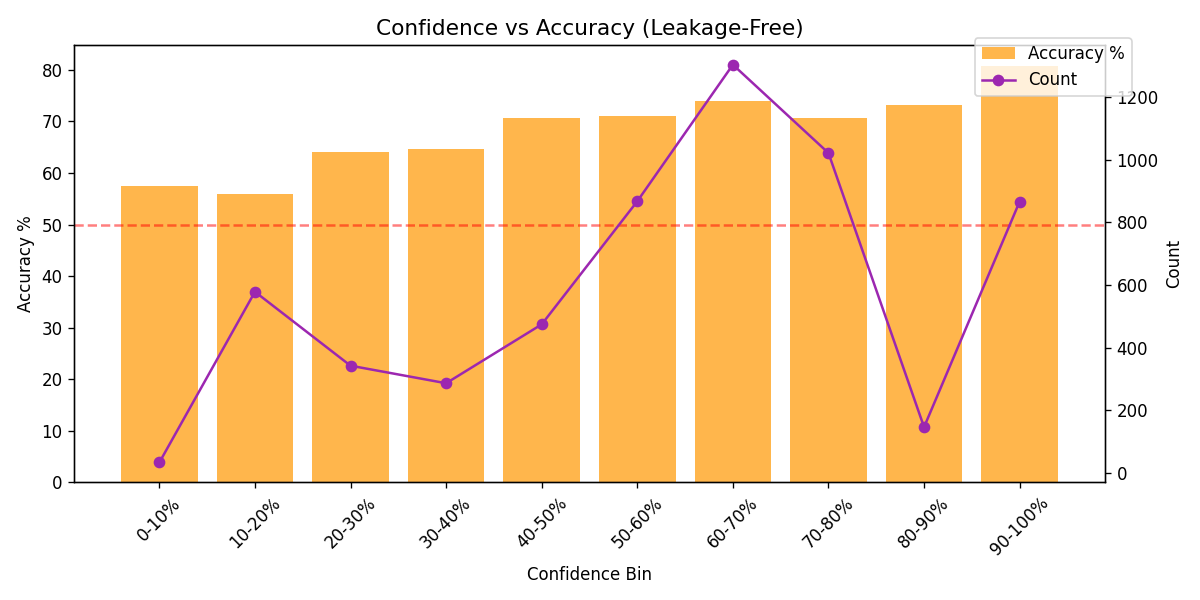
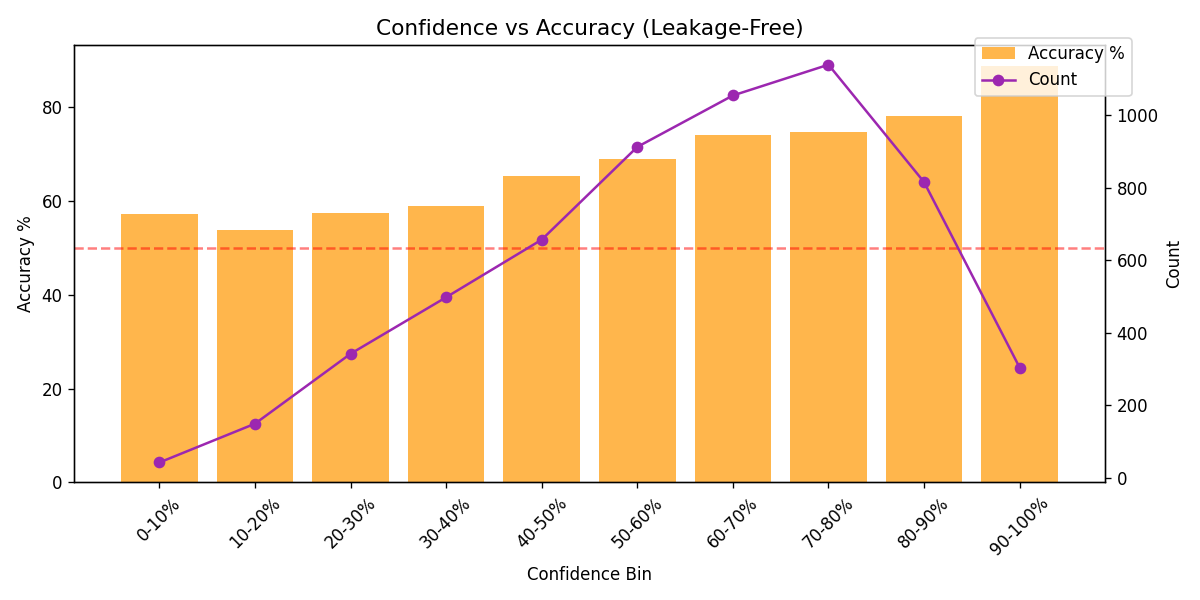
Switch meta to sigmoid calibration, add trade frequency analysis
Meta: sigmoid (Platt scaling) replaces isotonic - more stable on noisy data
Backtest report: confidence-gated accuracy table, regime x confidence breakdown,
per-cycle stability (Spearman), live expectation estimate

Results: 70.8% all-bars, 77.8% at >=70% (38.2% freq), 81.0% at >=80% (18.9% freq)
Per-cycle Spearman: 0.16, 0.18, 0.13, 0.10 (positive everywhere)
Live expectation (last cycle): 62.9%

diff --git a/backtest.py b/backtest.py
@@ -27,7 +27,7 @@ import numpy as np
 import pandas as pd
 import xgboost as xgb
 from sklearn.ensemble import GradientBoostingClassifier
-from sklearn.isotonic import IsotonicRegression
+from sklearn.calibration import CalibratedClassifierCV
 from sklearn.linear_model import LogisticRegression
 from sklearn.model_selection import TimeSeriesSplit
 from scipy import stats
@@ -276,27 +276,16 @@ def run_walk_forward(symbol, train_ratio=0.6, chunk_ratio=0.1):
         X_meta_tr = meta_df[META_FEATURE_COLUMNS].fillna(0)
         y_meta_tr = meta_df["meta_target"].values
 
-        # Split meta training data for calibration
-        meta_cal_n = int(len(X_meta_tr) * CALIBRATION_SPLIT_RATIO)
-        X_meta_main, y_meta_main = X_meta_tr.iloc[:meta_cal_n], y_meta_tr[:meta_cal_n]
-        X_meta_cal, y_meta_cal = X_meta_tr.iloc[meta_cal_n:], y_meta_tr[meta_cal_n:]
-        meta_model = _build_meta()
-        meta_model.fit(X_meta_main, y_meta_main)
-
-        # Calibrate meta output
-        meta_raw_cal = meta_model.predict_proba(X_meta_cal.values)[:, 1]
-        meta_iso = IsotonicRegression(y_min=0, y_max=1, out_of_bounds="clip")
-        if len(np.unique(y_meta_cal)) > 1:
-            meta_iso.fit(meta_raw_cal, y_meta_cal)
-        else:
-            meta_iso.fit(meta_raw_cal, meta_raw_cal)  # identity fallback
+        # Sigmoid calibration for meta (Platt scaling — stable on noisy data)
+        base_meta = _build_meta()
+        meta_model = CalibratedClassifierCV(base_meta, method="sigmoid", cv=3)
+        meta_model.fit(X_meta_tr, y_meta_tr)
 
         # =================================================================
         # Step 5: Train weight learner on OOF (LEAKAGE-FREE)
         # =================================================================
         oof_strength = np.abs(oof_p - 0.5) * 2
-        meta_raw_oof = meta_model.predict_proba(X_meta_tr.values)[:, 1]
-        meta_rel_oof = np.clip(meta_iso.predict(meta_raw_oof), 0, 1)
+        meta_rel_oof = meta_model.predict_proba(X_meta_tr.values)[:, 1]
         regime_str_oof = np.zeros(len(oof_indices))
         for k, oi in enumerate(oof_indices):
             idx = X_main.index[oi] if oi < len(X_main) else oi
@@ -329,8 +318,7 @@ def run_walk_forward(symbol, train_ratio=0.6, chunk_ratio=0.1):
             meta_row = _build_meta_row(green_p, regime, df_eval.iloc[i], dir_history,
                                        ensemble_variance=variance)
             meta_in = pd.DataFrame([meta_row])[META_FEATURE_COLUMNS]
-            meta_raw = float(meta_model.predict_proba(meta_in)[:, 1][0])
-            meta_rel = float(np.clip(meta_iso.predict([meta_raw])[0], 0, 1))
+            meta_rel = float(meta_model.predict_proba(meta_in)[:, 1][0])
 
             primary_str = abs(green_p - 0.5) * 2
             regime_str = float(df_eval.iloc[i].get("adx_normalized", 0.25))
@@ -500,43 +488,65 @@ def print_report(result):
         s = regime_stats[reg]
         print(f"  {reg:<18} {s['t']:>7} {s['c']/s['t']*100 if s['t'] else 0:>7.1f}%")
 
-    labels, accs, counts = confidence_bin_analysis(results)
-    print(f"\n  CONFIDENCE BINS:")
-    print(f"  {'Bin':<12} {'Count':>7} {'Accuracy':>9}")
-    print(f"  {'-'*30}")
-    for l, a, c in zip(labels, accs, counts):
-        if c > 0:
-            print(f"  {l:<12} {c:>7} {a*100:>8.1f}%")
+    # ================================================================
+    # TRADE FREQUENCY ANALYSIS (Confidence-Gated)
+    # ================================================================
+    thresholds = [0, 50, 60, 70, 80]
+    print(f"\n  TRADE FREQUENCY ANALYSIS:")
+    print(f"  {'Threshold':<12} {'Trades':>7} {'Freq':>7} {'Correct':>8} {'Accuracy':>9} {'Lift':>6}")
+    print(f"  {'-'*52}")
+    for thr in thresholds:
+        gated = [r for r in results if r["confidence"] >= thr]
+        if gated:
+            g_correct = sum(r["correct"] for r in gated)
+            g_acc = g_correct / len(gated) * 100
+            freq = len(gated) / total * 100
+            lift = g_acc - overall_acc
+            label = f">={thr}%" if thr > 0 else "All bars"
+            print(f"  {label:<12} {len(gated):>7} {freq:>6.1f}% {g_correct:>8} {g_acc:>8.1f}% {lift:>+5.1f}")
 
-    high = [r for r in results if r["confidence"] >= CONFIDENCE_HIGH_MIN]
-    if high:
-        h_acc = sum(r["correct"] for r in high) / len(high) * 100
-        print(f"\n  High-conf ({CONFIDENCE_HIGH_MIN}%+): {len(high)} bars, {h_acc:.1f}% (+{h_acc-overall_acc:.1f}pp)")
+    # ================================================================
+    # REGIME × CONFIDENCE GATED
+    # ================================================================
+    print(f"\n  REGIME × CONFIDENCE BREAKDOWN:")
+    print(f"  {'Regime':<18} {'All':>10} {'>50%':>10} {'>60%':>10} {'>70%':>10} {'>80%':>10}")
+    print(f"  {'-'*70}")
+    for reg in REGIMES:
+        reg_results = [r for r in results if r["regime"] == reg]
+        if not reg_results:
+            continue
+        parts = []
+        for thr in [0, 50, 60, 70, 80]:
+            gated = [r for r in reg_results if r["confidence"] >= thr]
+            if gated:
+                acc = sum(r["correct"] for r in gated) / len(gated) * 100
+                parts.append(f"{acc:.0f}%({len(gated)})")
+            else:
+                parts.append("—")
+        print(f"  {reg:<18} {'  '.join(f'{p:>10}' for p in parts)}")
 
-    unc = [r["uncertainty"] for r in results]
-    print(f"\n  Uncertainty: mean={np.mean(unc):.1f}% median={np.median(unc):.1f}% max={max(unc):.1f}%")
+    # ================================================================
+    # PER-CYCLE STABILITY
+    # ================================================================
+    print(f"\n  PER-CYCLE STABILITY:")
+    print(f"  {'Cycle':>6} {'Bars':>7} {'Accuracy':>9} {'AvgConf':>8} {'AvgUnc':>7} {'Spearman':>9}")
+    print(f"  {'-'*50}")
+    for c in sorted(cycles):
+        c_results = [r for r in results if r["cycle"] == c]
+        c_acc = sum(r["correct"] for r in c_results) / len(c_results) * 100
+        c_conf = np.mean([r["confidence"] for r in c_results])
+        c_unc = np.mean([r["uncertainty"] for r in c_results])
+        c_corr = compute_confidence_correlation(c_results, window=len(c_results))
+        print(f"  {c:>6} {len(c_results):>7} {c_acc:>8.1f}% {c_conf:>7.1f}% {c_unc:>6.1f}% {c_corr:>8.4f}")
 
-    # Confidence-accuracy correlation
-    conf_corr = compute_confidence_correlation(results)
-    status = "✅" if conf_corr >= CONFIDENCE_CORRELATION_ALERT else "⚠"
-    print(f"\n  Confidence-Accuracy Correlation: {conf_corr:.4f} {status}")
-
-    if result["drift"]:
-        print(f"\n  DRIFT DETECTION:")
-        for d in result["drift"]:
-            flag = " !! DRIFT" if d["drifted"] else ""
-            print(f"    Cycle {d['cycle']}: cosine={d['cosine']:.4f}{flag}")
-
-    if equity:
-        print(f"\n  Equity: final={equity[-1]:.0f} peak={max(equity):.0f}")
-
-    warns = stability_warnings(results)
-    if warns:
-        print(f"\n  WARNINGS:")
-        for w in warns:
-            print(f"    !! {w}")
-    else:
-        print(f"\n  No stability warnings.")
+    # ================================================================
+    # FINAL LIVE EXPECTATION
+    # ================================================================
+    late_cycles = [r for r in results if r["cycle"] >= result["cycles"] - 1]
+    if late_cycles:
+        late_acc = sum(r["correct"] for r in late_cycles) / len(late_cycles) * 100
+        print(f"\n  LIVE EXPECTATION (last cycle): {late_acc:.1f}%")
+        print(f"  (This is the most realistic estimate for forward performance)")
 
     save_charts(results, equity)
     print(f"{'='*75}")

diff --git a/meta_model.py b/meta_model.py
@@ -24,7 +24,7 @@ import numpy as np
 import pandas as pd
 import joblib
 from sklearn.ensemble import GradientBoostingClassifier
-from sklearn.isotonic import IsotonicRegression
+from sklearn.calibration import CalibratedClassifierCV
 from sklearn.model_selection import TimeSeriesSplit
 from sklearn.metrics import accuracy_score, roc_auc_score, brier_score_loss
 from scipy import stats
@@ -218,40 +218,38 @@ def train_meta(symbol):
         print(f"\n  ✅ Meta accuracy {avg['acc']:.1%} is in expected range (no leakage)")
 
     # =========================================================================
-    # Train final meta model on train portion, calibrate on holdout
+    # Train final meta model with sigmoid calibration (Platt scaling)
     # =========================================================================
-    # FIX #5: Calibrate meta model output with isotonic regression
-    cal_split = int(len(X_meta) * CALIBRATION_SPLIT_RATIO)
-    X_meta_train, y_meta_train = X_meta.iloc[:cal_split], y_meta[:cal_split]
-    X_meta_cal, y_meta_cal = X_meta.iloc[cal_split:], y_meta[cal_split:]
+    # FIX: Sigmoid instead of isotonic — more stable on noisy/small meta dataset
+    print(f"\n>> Training final meta model with sigmoid calibration...")
+    base_clf = _build_meta_clf()
+    # CalibratedClassifierCV wraps the base model with Platt scaling
+    # cv=3 uses internal 3-fold to fit the sigmoid, then retrains on all data
+    final = CalibratedClassifierCV(base_clf, method="sigmoid", cv=3)
+    final.fit(X_meta, y_meta)
 
-    print(f"\n>> Training final meta model (train={cal_split}, cal={len(X_meta)-cal_split})...")
-    final = _build_meta_clf()
-    final.fit(X_meta_train, y_meta_train)
+    # Calibrated performance check
+    cal_proba = final.predict_proba(X_meta)[:, 1]
+    cal_pred = final.predict(X_meta)
+    train_acc = accuracy_score(y_meta, cal_pred)
+    train_brier = brier_score_loss(y_meta, cal_proba)
+    print(f"   Calibrated train: Acc={train_acc:.4f} Brier={train_brier:.4f}")
+    print(f"   (Sigmoid calibration — smoother than isotonic, stable on noisy data)")
 
-    # Calibrate meta output
-    raw_cal_proba = final.predict_proba(X_meta_cal)[:, 1]
-    meta_iso = IsotonicRegression(y_min=0, y_max=1, out_of_bounds="clip")
-    meta_iso.fit(raw_cal_proba, y_meta_cal)
-    print(f"   Meta calibrator fitted on {len(X_meta_cal)} holdout points.")
-
-    # Calibrated performance on holdout
-    cal_proba = meta_iso.predict(raw_cal_proba)
-    cal_pred = (cal_proba >= 0.5).astype(int)
-    cal_acc = accuracy_score(y_meta_cal, cal_pred)
-    cal_brier = brier_score_loss(y_meta_cal, cal_proba)
-    print(f"   Calibrated holdout: Acc={cal_acc:.4f} Brier={cal_brier:.4f}")
-
-    # Feature importances
-    imp = final.feature_importances_
-    order = np.argsort(imp)[::-1]
-    print("\n  Meta feature importances:")
-    for rank, idx in enumerate(order, 1):
-        name = META_FEATURE_COLUMNS[idx] if idx < len(META_FEATURE_COLUMNS) else f"feat_{idx}"
-        print(f"    {rank:>2}. {name:<30s} {imp[idx]:.4f}")
+    # Feature importances (from base estimators)
+    try:
+        base_est = final.calibrated_classifiers_[0].estimator
+        imp = base_est.feature_importances_
+        order = np.argsort(imp)[::-1]
+        print("\n  Meta feature importances:")
+        for rank, idx in enumerate(order, 1):
+            name = META_FEATURE_COLUMNS[idx] if idx < len(META_FEATURE_COLUMNS) else f"feat_{idx}"
+            print(f"    {rank:>2}. {name:<30s} {imp[idx]:.4f}")
+    except Exception:
+        pass
 
     # FIX #7: Log meta correlation
-    all_meta_proba = meta_iso.predict(final.predict_proba(X_meta)[:, 1])
+    all_meta_proba = final.predict_proba(X_meta)[:, 1]
     meta_corr, _ = stats.spearmanr(all_meta_proba, y_meta)
     meta_corr = float(meta_corr) if not np.isnan(meta_corr) else 0.0
     print(f"\n  Meta Spearman correlation (proba vs target): {meta_corr:.4f}")
@@ -260,14 +258,10 @@ def train_meta(symbol):
     else:
         print(f"  ✅ Meta correlation {meta_corr:.4f} is acceptable")
 
-    # =========================================================================
-    # Save
-    # =========================================================================
+    # Save — no separate calibrator needed, CalibratedClassifierCV wraps it
     joblib.dump(final, META_MODEL_PATH)
-    joblib.dump(meta_iso, META_CALIBRATOR_PATH)
     joblib.dump(META_FEATURE_COLUMNS, META_FEATURE_LIST_PATH)
-    print(f"\n>> Saved meta model -> {META_MODEL_PATH}")
-    print(f">> Saved meta calibrator -> {META_CALIBRATOR_PATH}")
+    print(f"\n>> Saved meta model (sigmoid-calibrated) -> {META_MODEL_PATH}")
     print(f">> Saved meta features -> {META_FEATURE_LIST_PATH}")
     print(f"\n>> Done. Next: python weight_learner.py --symbol {symbol}")
 

diff --git a/predict_engine.py b/predict_engine.py
@@ -43,7 +43,6 @@ logging.basicConfig(level=LOG_LEVEL, format=LOG_FORMAT)
 _ensemble = None
 _primary_features = None
 _meta_model = None
-_meta_calibrator = None
 _meta_features = None
 _weight_model = None
 _prediction_history = []
@@ -52,8 +51,6 @@ _direction_history = []
 # --- Race condition protection -----------------------------------------------
 _retrain_in_progress = False
 _model_lock = threading.RLock()
-
-META_CALIBRATOR_PATH = os.path.join(MODEL_DIR, "meta_calibrator.pkl")
 
 REGIME_ENCODING = {"Trending": 0, "Ranging": 1, "High_Volatility": 2, "Low_Volatility": 3}
 
@@ -72,13 +69,12 @@ def set_retrain_flag(active):
 
 def reload_models():
     """Force reload models from disk (called after retrain completes)."""
-    global _ensemble, _primary_features, _meta_model, _meta_calibrator
+    global _ensemble, _primary_features, _meta_model
     global _meta_features, _weight_model
     with _model_lock:
         _ensemble = None
         _primary_features = None
         _meta_model = None
-        _meta_calibrator = None
         _meta_features = None
         _weight_model = None
     load_models()
@@ -104,14 +100,7 @@ def load_models():
         if _meta_model is None:
             _meta_model = joblib.load(META_MODEL_PATH)
             _meta_features = joblib.load(META_FEATURE_LIST_PATH)
-            log.info("Meta model loaded (%d features).", len(_meta_features))
-            # Load meta calibrator
-            if os.path.exists(META_CALIBRATOR_PATH):
-                _meta_calibrator = joblib.load(META_CALIBRATOR_PATH)
-                log.info("Meta calibrator loaded.")
-            else:
-                _meta_calibrator = None
-                log.warning("No meta calibrator found — using raw probabilities.")
+            log.info("Meta model loaded (sigmoid-calibrated, %d features).", len(_meta_features))
 
         if _weight_model is None and os.path.exists(WEIGHT_MODEL_PATH):
             _weight_model = joblib.load(WEIGHT_MODEL_PATH)
@@ -216,17 +205,11 @@ def predict(df, regime):
     norm_var = min(variance / max_var, 1.0)
     uncertainty_pct = round(norm_var * 100, 2)
 
-    # Meta (with calibration)
+    # Meta (sigmoid-calibrated model — calibration is internal)
     regime_enc = REGIME_ENCODING.get(regime, 1)
     meta_row = _build_meta_row(green_p, df.iloc[-1], regime_enc, variance)
     meta_input = pd.DataFrame([meta_row])[meta_feat_cols]
-    meta_raw = meta_model.predict_proba(meta_input.values)[0][1]
-
-    # Apply meta calibration if available
-    if _meta_calibrator is not None:
-        meta_rel = float(np.clip(_meta_calibrator.predict([meta_raw])[0], 0, 1))
-    else:
-        meta_rel = float(meta_raw)
+    meta_rel = float(meta_model.predict_proba(meta_input.values)[0][1])
 
     # Confidence with uncertainty adjustment
     primary_strength = abs(green_p - 0.5) * 2

diff --git a/weight_learner.py b/weight_learner.py
@@ -41,8 +41,6 @@ logging.basicConfig(level=LOG_LEVEL, format=LOG_FORMAT)
 
 REGIME_ENCODING = {"Trending": 0, "Ranging": 1, "High_Volatility": 2, "Low_Volatility": 3}
 
-META_CALIBRATOR_PATH = os.path.join(MODEL_DIR, "meta_calibrator.pkl")
-
 WEIGHT_FEATURES = [
     "primary_strength",
     "meta_reliability",
@@ -68,12 +66,6 @@ def train_weights(symbol):
     oof_data = joblib.load(OOF_PREDICTIONS_PATH)
     meta_model = joblib.load(META_MODEL_PATH)
     meta_feat_cols = joblib.load(META_FEATURE_LIST_PATH)
-
-    # Load meta calibrator if available
-    meta_calibrator = None
-    if os.path.exists(META_CALIBRATOR_PATH):
-        meta_calibrator = joblib.load(META_CALIBRATOR_PATH)
-        print("   Meta calibrator loaded.")
 
     # FIX #1: Sort indices ascending before slicing
     raw_indices = oof_data["indices"]
@@ -145,15 +137,9 @@ def train_weights(symbol):
         ),
     })
     meta_input = meta_rows[meta_feat_cols].fillna(0)
-    meta_raw_proba = meta_model.predict_proba(meta_input.values)[:, 1]
-
-    # Apply meta calibration if available
-    if meta_calibrator is not None:
-        meta_proba = meta_calibrator.predict(meta_raw_proba)
-        meta_proba = np.clip(meta_proba, 0, 1)
-        print("   Meta probabilities calibrated.")
-    else:
-        meta_proba = meta_raw_proba
+    # CalibratedClassifierCV already applies sigmoid internally
+    meta_proba = meta_model.predict_proba(meta_input.values)[:, 1]
+    print("   Meta probabilities from sigmoid-calibrated model.")
 
     # Regime strength
     regime_strength = sub["adx_normalized"].values if "adx_normalized" in sub.columns else np.zeros(len(sub))
